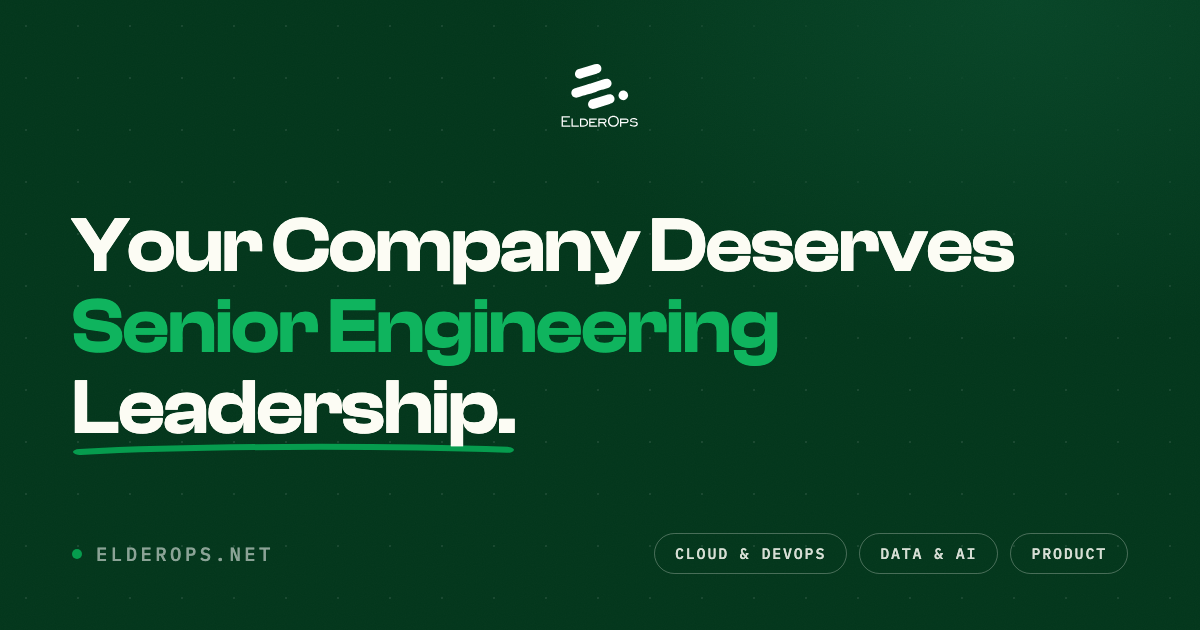
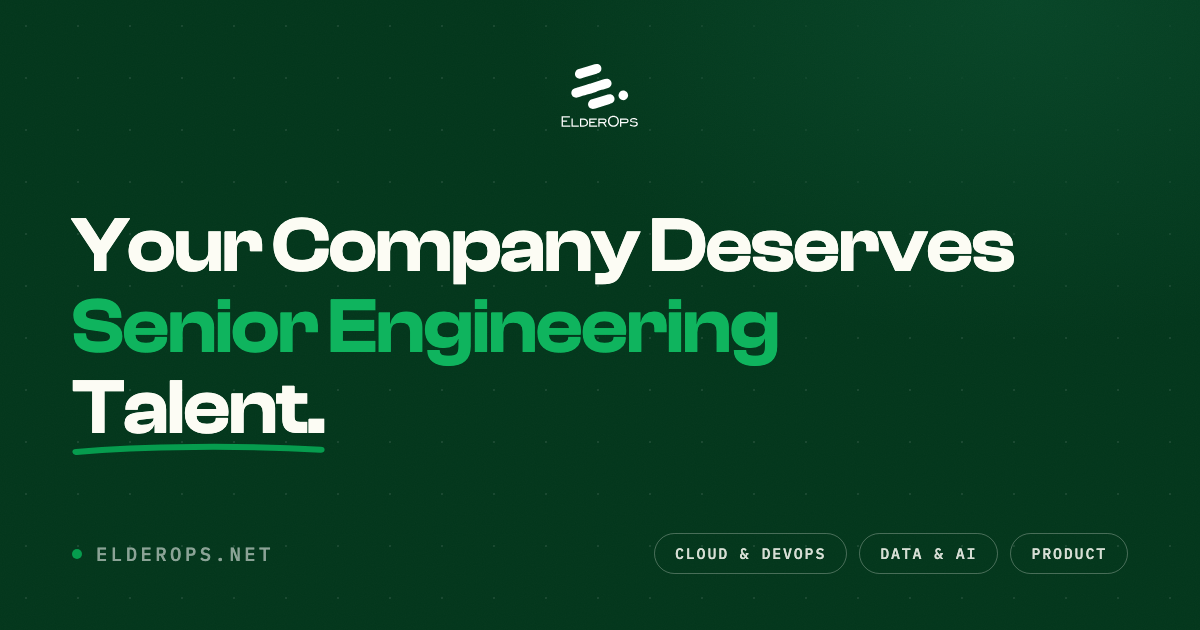
Home hero: "Senior Engineering Leadership" -> "Senior Engineering Talent"
Headline, contents data, and the OG share card updated together.

Changed region(s): [[0.0617, 0.6032, 0.4317, 0.7238]]

diff --git a/src/components/screens/home/Hero.tsx b/src/components/screens/home/Hero.tsx
@@ -30,7 +30,7 @@ const Hero = () => {
             <h1 className="max-w-2xl font-display text-[clamp(2.5rem,5.8vw,4.5rem)] font-semibold leading-[1.03] tracking-[-0.025em] text-bg-cream">
               Your Company Deserves{" "}
               <span className="text-border-light">Senior Engineering</span>{" "}
-              <Underlined delay={1.1}>Leadership.</Underlined>
+              <Underlined delay={1.1}>Talent.</Underlined>
             </h1>
           </Reveal>
 

diff --git a/src/contents/screens/home.ts b/src/contents/screens/home.ts
@@ -13,7 +13,7 @@ import tandatech from "@/assets/png/logos/tanda.png";
 import notchHr from "@/assets/png/logos/notchHr.png";
 
 export const heroText = {
-  title: "Your Company Deserves Senior Engineering Leadership",
+  title: "Your Company Deserves Senior Engineering Talent",
   subtext:
     "Get experienced engineers, technical oversight, and managed delivery that helps your business scale with confidence, without the cost and commitment of a full-time senior hire.",
 };